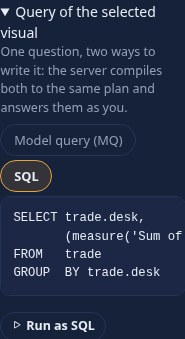
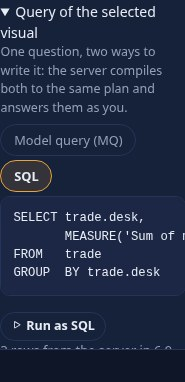
Query panel keeps Run as SQL's answer while the question is the same; an Analyse SQL cell is as tall as its statement; a redrawn measure form refreshes its editor (chips and check); the guides show the SQL view, the server's Analyse cell and Run as SQL with captured output and pictures

diff --git a/drishti-console/web/static/js/bi-query-panel.js b/drishti-console/web/static/js/bi-query-panel.js
@@ -142,9 +142,11 @@
     const box = h('details', { class: 'bi-md-query', 'data-visual-query': '' }, h('summary', { text: 'Query of the selected visual' }),
       h('p', { class: 'text-muted-d bi-small-note', text: 'One question, two ways to write it: the server compiles both to the same plan and answers them as you.' }), views, pre, run, out);
     host.appendChild(box);
+    let shown = null;
     function draw() {
       const mq = opts.current();
-      B.clear(out);
+      const sig = JSON.stringify(mq) + view;
+      if (sig !== shown) { B.clear(out); shown = sig; }                     // the last run's answer stays while the question is the same
       run.hidden = view !== 'sql' || !mq;
       if (!mq) { pre.textContent = 'Choose a visual: its query (what the server is asked, as you) shows here.'; return; }
       pre.textContent = view === 'mq' ? B.mq.yaml(mq) : B.mq.sql(mq, opts.fields());

diff --git a/drishti-console/web/static/js/bi-explore-cells.js b/drishti-console/web/static/js/bi-explore-cells.js
@@ -40,7 +40,7 @@
   function draw(kind) {
     var host = clear(q('[data-cells=' + kind + ']', root));
     X.cells[kind].forEach(function (cell, i) {
-      var area = h('textarea', { class: 'studio-in mono bx-code', rows: kind === 'sql' ? 3 : 6, spellcheck: 'false', 'aria-label': kind.toUpperCase() + ' cell ' + (i + 1), maxlength: 65536 });
+      var area = h('textarea', { class: 'studio-in mono bx-code', rows: kind === 'sql' ? Math.min(10, Math.max(3, String(cell.source || '').split('\n').length)) : 6, spellcheck: 'false', 'aria-label': kind.toUpperCase() + ' cell ' + (i + 1), maxlength: 65536 });
       area.value = cell.source || '';
       area.addEventListener('input', function () { cell.source = area.value; });
       var out = h('div', { class: 'bx-out', 'data-out': '', role: 'region', 'aria-label': 'Output of cell ' + (i + 1), 'aria-live': 'polite' });

diff --git a/drishti-console/web/static/js/bi-model-tabs.js b/drishti-console/web/static/js/bi-model-tabs.js
@@ -44,7 +44,7 @@
     kept.forEach((k) => {
       const el = pane.querySelector('[data-keep] [' + k.key + ']');
       if (!el) { return; }
-      if (el.type === 'checkbox') { el.checked = k.value; } else if (el.value !== k.value) { el.value = k.value; if (el.tagName === 'SELECT') { el.dispatchEvent(new Event('change')); } }
+      if (el.type === 'checkbox') { el.checked = k.value; } else if (el.value !== k.value) { el.value = k.value; if (el.tagName === 'SELECT') { el.dispatchEvent(new Event('change')); } if (el.drishtiExpr) { el.drishtiExpr.refresh(); } }
       if (k.focus) { el.focus(); }
     });
   }

diff --git a/drishti-console/web/static/js/bi-expr-editor.js b/drishti-console/web/static/js/bi-expr-editor.js
@@ -287,7 +287,7 @@
     }
     drawChips();
     if (input.value.trim()) { validate(); }
-    const api = { input, wrap, validate: () => validate(true), last: () => lastChecked, refresh: () => { drawChips(); }, close };
+    const api = { input, wrap, validate: () => validate(true), last: () => lastChecked, refresh: () => { drawChips(); validate(); }, close };
     input.drishtiExpr = api;
     return api;
   };

diff --git a/docs/guides/ANALYSE.md b/docs/guides/ANALYSE.md
@@ -99,18 +99,21 @@ rows: the two give the same table (a Chromium test compares them). The line unde
 the cell's engine choice says *Server: Drishti SQL over the model*, and the statement is **Drishti SQL over the model the extract reads** (a model, or a
 dataset's implicit model), not over the extract. Its tables are the model's aliases, a measure is `MEASURE('name')`, `JOIN` needs no `ON` (the model's
 relationships are used), and the server answers **as you**, with your row rules and masks, through the same plan as the model query it equals. A new
-cell starts with a statement written from the model (a field you ticked and the model's first measure), for example:
+cell starts with a statement written from the model (the first text field you ticked and the model's first measure). Captured for an extract of the
+model *SQL model* (trades and desks, one measure *Sum of mtm*):
 
 ```sql
-SELECT desks.name,
-       MEASURE('MTM') AS MTM
-FROM   trades
-JOIN   desks
-GROUP  BY desks.name
+SELECT trade.book,
+       MEASURE('Sum of mtm') AS "Sum of mtm"
+FROM   trade
+GROUP  BY trade.book
 LIMIT  20
 ```
 
-The cell's footer says *Drishti SQL, run by the server over trading-risk@1 as you*, with the plan and the masked columns. The console sends the cell to
+The cell's footer says *3 rows in 16 ms · Drishti SQL, run by the server over sql-model@1 as you · plan p_a02f4d0f6d*, with the masked columns when
+there are any:
+
+![A SQL cell: the statement above, Run, the engine Server: Drishti SQL over the model, and three books with their Sum of mtm](img/bi-languages/analyse-dsql-cell.jpg) The console sends the cell to
 `POST /bi/explore/dsql` (`{extract, sql}`), which asks the server's `POST /api/v1/bi/sql` with the model and the cell's row limit
 (`bi.explore.sql_max_rows`, one more to say when it was cut); it never reads the SQL itself. A version 1 dataset has no model: its cells run over the
 extract, as below. **Over the extract** stays selectable in each cell until wave B, and a statement that reads the table `extract` (an older notebook)

diff --git a/docs/guides/DATASETS.md b/docs/guides/DATASETS.md
@@ -952,15 +952,26 @@ drishti.py bi expr validate "notional / 1000000" --scope row --model dataset:pac
 ```
 
 and save the YAML as a draft with the API (`POST /api/v1/bi/workspaces/<id>/items` with `{kind: dataset, title, body}`) or put the file under
-`config/bi/datasets/`. An **SQL view** over a model is a reviewed Drishti SQL statement whose answer is the table:
+`config/bi/datasets/`.
+
+**An SQL view over a model** is a reviewed Drishti SQL statement whose answer is the table ([SQL.md](SQL.md)): choose the model, write the statement,
+**Check the SQL** (the server says what it answers, or what is wrong with the fix), **Preview** (its first rows, as you), **Save**:
+
+![The source step with An SQL view over a model chosen: the model SQL model, the statement, and The SQL checks: desk (string), mtm (decimal)](img/bi-languages/wizard-sql-view.jpg)
+
+![The preview: 3 rows, as you; Bonds and securitised -75,000, Equity derivatives 425,000, G10 and EM FX -575,000](img/bi-languages/wizard-sql-preview.jpg)
+
+What it wrote (captured):
 
 ```yaml
 rachana: 2
 dataset: desk-mtm
 version: 1.0.0
 title: Desk MTM
-source: {sql: "SELECT desk.name AS desk, MEASURE('Sum of mtm') AS mtm FROM trade JOIN desk GROUP BY desk.name", model: trades-and-desks@1}
+source: {sql: 'SELECT desk.name AS desk, MEASURE(''Sum of mtm'') AS mtm FROM trade JOIN desk GROUP BY desk.name', model: sql-model@1}
 ```
+
+The same statement from the command line, as you: `drishti.py bi sql "SELECT desk.name AS desk, MEASURE('Sum of mtm') AS mtm FROM trade JOIN desk GROUP BY desk.name" --model sql-model@1`.
 
 The console calls: `POST /bi/model-api/dataset-yaml` (the document to YAML and the server's Check, `POST /api/v1/bi/models/validate`),
 `POST /bi/api/expr/validate` (each formula, with `model: dataset:<base>` and `alias`), `POST /bi/api/sql/validate` (the SQL view), and for the preview the

diff --git a/docs/guides/REPORTS.md b/docs/guides/REPORTS.md
@@ -854,7 +854,12 @@ FROM   trade
 GROUP  BY trade.desk
 ```
 
-![The query panel with SQL chosen: the statement above and Run as SQL](img/bi-languages/query-panel-sql.jpg)
+**Run as SQL** answered *3 rows from the server in 6.9 ms. Plan p_c1e3fa03bc: the same plan as the visual's query.* The same holds outside the
+designer: on that model, the model query `{select: {fields: [trade.desk], measures: [Sum of mtm]}}` and the statement
+`SELECT trade.desk, MEASURE('Sum of mtm') AS "Sum of mtm" FROM trade GROUP BY trade.desk` answer the same rows with the same `meta.plan` (a browser test
+checks it).
+
+![The query panel with SQL chosen: the statement above, Run as SQL, and the line 3 rows from the server ... the same plan as the visual's query](img/bi-languages/query-panel-sql.jpg)
 
 **Expressions are DEL v2.** Every formula the designer writes uses the Python-like syntax ([EXPRESSIONS.md](EXPRESSIONS.md)); a report saved before
 2.2.0 with the older syntax still reads, with a `DRS-9100` warning, until the end of wave A.
